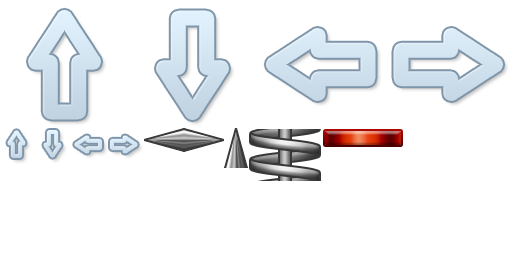
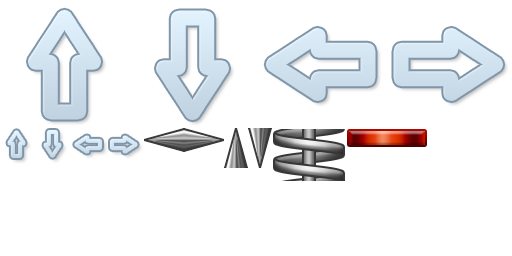
Fix in override, fix for spike texture and first new walls added

Changed region(s): [[0.4688, 0.5, 0.8438, 0.7188]]

diff --git a/Source/FirstParty/AllInOneSolution/AllInOneSolution/Core/model/Level_LoadingPart.cpp b/Source/FirstParty/AllInOneSolution/AllInOneSolution/Core/model/Level_LoadingPart.cpp
@@ -353,12 +353,17 @@ void Level::findPhysicAndShapeTag(tinyxml2::XMLElement*& physic, tinyxml2::XMLEl
         else
             shape = physics->FirstChildElement("shape");
 
-        auto name = std::string(physics->Attribute("name"));
-        // Physics template exists other wise no template is used
-        if(templates.physics.find(std::string(physics->Attribute("name"))) != end(templates.physics))
-            physic = templates.physics.find(name)->second;
-        if(physic == nullptr)
-            throw std::runtime_error(utility::replace(utility::translateKey("UnknownPhysicReference"), name));
+        if(physics->Attribute("name"))
+        {
+            auto name = std::string(physics->Attribute("name"));
+            // Physics template exists other wise no template is used
+            if(templates.physics.find(std::string(physics->Attribute("name"))) != end(templates.physics))
+                physic = templates.physics.find(name)->second;
+            if(physic == nullptr)
+                throw std::runtime_error(utility::replace(utility::translateKey("UnknownPhysicReference"), name));
+        }
+        else
+            physic = physics;
     }
 }
 
